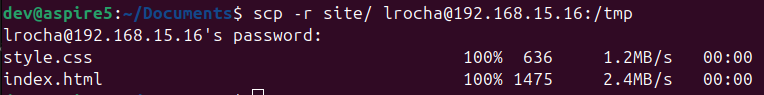
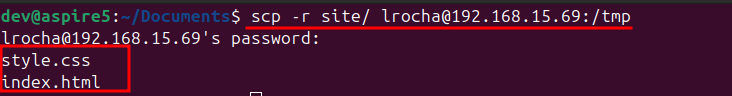
docs: add terminal images

diff --git a/docs/etapa-3-monitoramento-automatico.md b/docs/etapa-3-monitoramento-automatico.md
@@ -1,16 +1,240 @@
 # 🚨 Etapa 3: Monitoramento automático do site com Python e alertas via Discord
 
-Nesta etapa, será criado um script em `Python` que monitora o site via `response` a disponibilidade. Se estiver fora do ar, um alerta será enviado via Discord, e logs serão salvos em `/var/log/nginx-general.log` além do uso de `crontab` para monitoramento constante a cada minuto.
+Nesta etapa, será criado um script em **Python** que monitorará a disponibilidade do site (HTTP). Se o site estiver fora do ar, um alerta será enviado para um canal do **Discord** via *webhook* e as ocorrências serão registradas em `/var/log/nginx-general.log`. Em seguida vamos agendar a execução com `cron` para rodar **a cada minuto**.
 
 ---
 
-## ✅ 1 Criar um Webhook no Discord
+## ✅ 1 — Criar um Webhook no Discord
 
-1. Acesse seu servidor do Discord.
-<details> <summary><b>Servidor do discord</b></summary> <img src="../assets/disc-server.png" width="700px" alt="Servidor do discord"> </details>
-2. Vá em **Configurações do servidor > Integrações > Webhooks**.
-3. Clique em **"Novo Webhook"**.
-4. Selecione o canal.
-<details> <summary><b>Novo WebHook no discord</b></summary> <img src="../assets/disc-server.png" width="700px" alt="WebHook no discord"> </details>
-5. Clique em **Copiar URL do Webhook** – você usará isso mais adiante.
+1. Acesse seu servidor no Discord.  
+   <details>
+   <summary><b>Servidor do Discord</b></summary>
+   <img src="../assets/disc-server.png" width="900px" alt="Servidor do discord">
+   <p><i>Figura — Servidor do Discord</i></p>
+   </details>
 
+2. Vá em **Configurações do servidor > Integrações > Webhooks**.  
+3. Clique em **"Novo Webhook"**, escolha o canal e **Copiar URL do Webhook**.  
+   <details>
+   <summary><b>Novo Webhook no Discord</b></summary>
+   <img src="../assets/disc-web-hook.png" width="900px" alt="WebHook no discord">
+   <p><i>Figura — Criando o webhook</i></p>
+   </details>
+   
+> [!NOTE]\
+>Guarde a URL do webhook — você usará essa URL no `.env`.
+
+---
+
+## ✅ 2 — Preparar o ambiente e o script
+
+### 2.1 Pré-requisitos (instalar pacotes do sistema)
+
+No terminal da sua VM (Ubuntu):
+
+```bash
+sudo apt update
+sudo apt install -y python3 python3-venv python3-pip
+```
+> [!IMPORTANT]\
+> `python3-venv` é necessário para criar ambientes virtuais.
+
+---
+
+### 2.2 Criar a pasta do projeto e ajustar permissões (recomendo usar o root)
+
+```bash
+mkdir -p /opt/monitor-site
+cd /opt/monitor-site
+```
+
+> [!IMPORTANT]\
+> Se a pasta for criada com um user do grupo `sudo`, o `owner` e `group` será o `root`, use `chown` para ficar com seu usuário antes de criar o `venv`, evitando `Permission denied`.
+> ```bash
+> sudo chown -R $USER:$USER /opt/monitor-site``
+
+---
+
+### 2.3 Criar e ativar o ambiente virtual (venv)
+
+```bash
+python3 -m venv venv
+source venv/bin/activate   # você verá o prompt com (venv), que significa que você está no ambiente virtual python desta pasta
+```
+
+Instalar dependências dentro do `venv`:
+
+```bash
+pip install --upgrade pip
+pip install python-dotenv requests # para usar .env
+```
+
+> [!NOTE]\
+> Sempre use o `venv/bin/python` e o `venv/bin/pip` quando referenciar o interpretador do projeto (importante para o `cron`).
+
+<details>
+  <summary><b>Terminal do venv</b></summary>
+  <img src="../assets/venv.png" width="900px" alt="Terminal do venv">
+  <p><i>Figura — Ambiente virtual </i></p>
+</details>
+
+---
+
+### 2.4 Criar o arquivo `.env`
+
+Crie `/opt/monitor-site/.env`:
+
+```bash
+nano /opt/monitor-site/.env
+```
+
+Exemplo de conteúdo (substitua pelos seus valores):
+
+```
+SITE_URL=http://192.168.15.16
+WEBHOOK_URL=https://discord.com/api/webhooks/SEU_WEBHOOK_AQUI
+```
+
+Interessante retirar algumas permissões do `.env`:
+
+```bash
+chmod 600 /opt/monitor-site/.env
+```
+
+---
+
+### 2.5 Copiar / colar o `monitor_site.py` para a VM
+
+Se você editou o script localmente na máquina ou pegou o script que deixei na pasta `\scripts`, copie para a VM:
+
+```bash
+scp \pasta usuario@IP_DA_VM:/tmp
+```
+
+<details>
+  <summary><b>Exemplo SCP no terminal</b></summary>
+  <img src="../assets/scp-script.png" width="700px" alt="Terminal scp script">
+  <p><i>Figura — Copiando arquivo para a VM</i></p>
+</details>
+
+Mover o script para o diretório do projeto na VM:
+
+```bash
+mv /tmp/monitor_site.py /opt/monitor-site/monitor_site.pyy
+```
+
+<details>
+  <summary><b>Movendo o script</b></summary>
+  <img src="../assets/mv-script.png" width="900px" alt="Terminal mv do script">
+  <p><i>Figura — Movendo script para /opt/monitor-site</i></p>
+</details>
+
+Edite o script com `nano` se precisar:
+
+```bash
+nano /opt/monitor-site/monitor_site.py
+```
+
+<details>
+  <summary><b>Script em edição (exemplo)</b></summary>
+  <img src="../assets/monitor-nano" width="900px" alt="Script em python para monitoramento">
+  <p><i>Figura — Edição do script</i></p>
+</details>
+
+Torne executável:
+
+```bash
+chmod +x /opt/monitor-site/monitor.py
+```
+
+---
+
+### 2.7 Criar o arquivo de log e ajustar permissões
+
+```bash
+cd /var/log
+touch nginx-general.log
+chmod 664 /var/log/nginx-general.log
+```
+
+---
+
+### 2.8 Teste manual (dentro do venv)
+
+Ative o venv e execute o script manualmente:
+
+```bash
+cd /opt/monitor-site
+source venv/bin/activate
+python monitor_site.py
+# ou: /opt/monitor-site/venv/bin/python /opt/monitor-site/monitor_site.py
+```
+
+> [!IMPORTANT]\
+> Para desativar o ambiente virtual use `deactivate`
+
+Verifique o log:
+
+```bash
+cat /var/log/nginx-general.log
+```
+
+<details>
+  <summary><b>Teste manual da venv</b></summary>
+  <img src="../assets/test-log.png" width="700px" alt="Teste manual da venv">
+  <p><i>Figura — Exemplo de teste manual com venv</i></p>
+</details>
+
+Se o site estiver caído, você verá entradas no log e receberá a notificação no Discord.
+
+<details>
+  <summary><b>Notificação de erro no Discord</b></summary>
+  <img src="../assets/disc-error-msg.png" width="700px" alt="Notificação do discord">
+  <p><i>Figura — Exemplo de mensagem de alerta no Discord</i></p>
+</details>
+
+---
+
+## ✅ 3 — Agendar execução automática com `cron`
+
+1. Abra o crontab:
+
+```bash
+crontab -e
+```
+
+2. Adicione a linha abaixo para executar **a cada minuto** usando o Python do `venv`:
+
+```bash
+* * * * * /opt/monitor-site/venv/bin/python /opt/monitor-site/monitor_site.py >> /var/log/nginx-general.log 2>&1
+```
+
+**Explicação rápida:**
+- `* * * * *` → executa a cada 1 minuto.  
+- Usa `/opt/monitor-site/venv/bin/python` para garantir as bibliotecas instaladas no `venv`.  
+- Redireciona saída padrão e erros para o mesmo arquivo de log.
+
+<details>
+  <summary><b>Configuração do cron</b></summary>
+  <img src="../assets/cron-job.png" width="700px" alt="Configuração do cron">
+  <p><i>Figura — Cron configurado para rodar o script a cada minuto</i></p>
+</details>
+
+3. Salve e saia do editor (`Ctrl+O`, `Enter`, `Ctrl+X` no nano; `:wq` no vim).
+
+---
+
+## ✅ 4 — Verificações e troubleshooting rápido
+
+- **`Invalid URL 'None'`** → veja se o `.env` está no caminho correto (`/opt/monitor-site/.env`) e contém `SITE_URL` com `http://` ou `https://`.
+- **Erro de permissão ao gravar log** → verifique o owner/permissions de `/var/log/nginx-general.log`.
+- **Cron não encontra requests/dotenv** → verifique se está usando o `venv` no `crontab` (veja linha acima).
+- **Testar webhook manualmente**:
+  ```bash
+  curl -H "Content-Type: application/json" -X POST -d '{"content":"teste"}' https://discord.com/api/webhooks/SEU_WEBHOOK
+  ```
+- **Ver fuso horário (timestamp está adiantado)**: ajuste o timezone do servidor (afeta o `datetime.now().astimezone()`):
+  ```bash
+  sudo timedatectl set-timezone America/Sao_Paulo
+  date
+  ```
